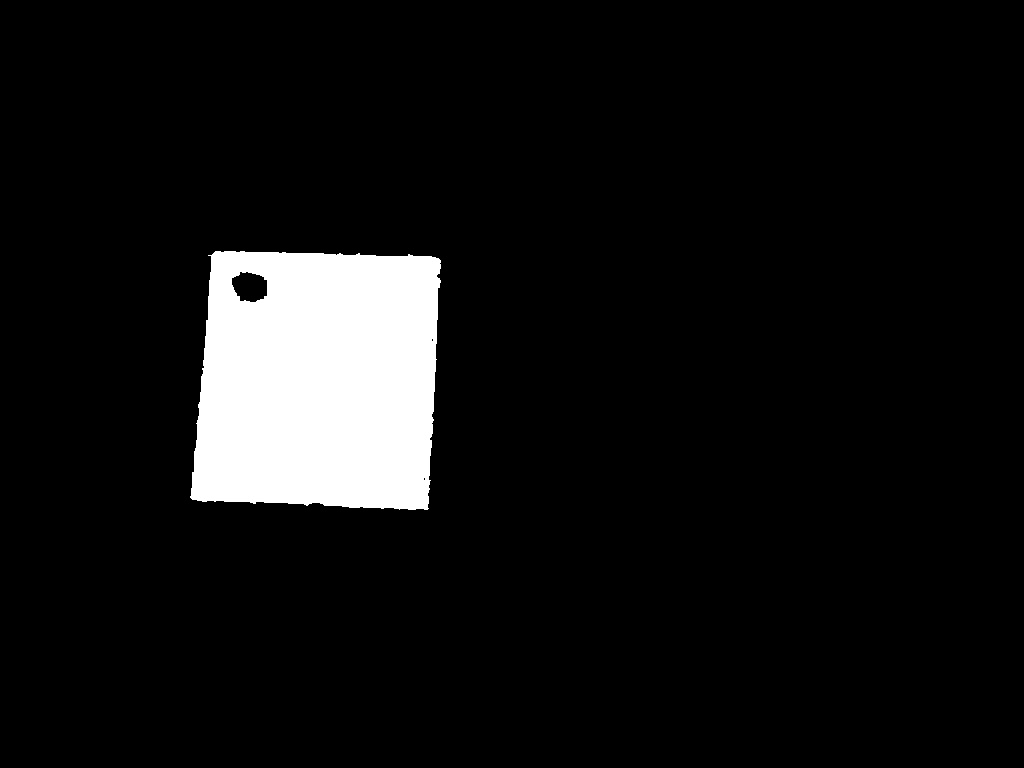
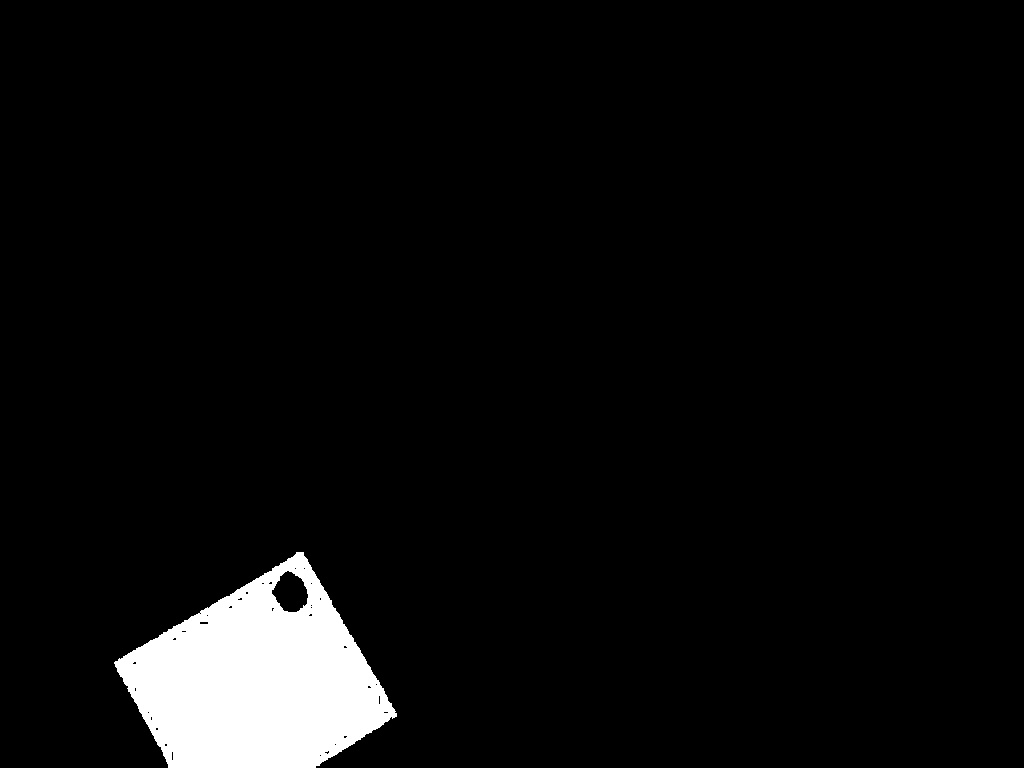
improved translate/rotation for drawing robot

Changed region(s): [[0.1875, 0.3125, 0.4375, 0.6875], [0.0938, 0.7188, 0.4062, 1.0]]

diff --git a/nodejs/index.html b/nodejs/index.html
@@ -12,12 +12,30 @@
   </head>
   <body>
 
-    <canvas id="table" width="700" height="600" ></canvas>
+    <canvas id="table" width="520" height="390" ></canvas>
 
-    <button id="update_pos">update position</button>
+    <div>
+     <p>Robot information</p> 
+     <p><b>angle: </b><span id="robot_angle"></span></p>
+     <p><b>position: </b></p>
+     <p><b>    x: </b><span id="robot_x"></span></p>
+     <p><b>    y: </b><span id="robot_y"></span></p>
+     <p><b>width: </b><span id="robot_width"></span></p>
+     <p><b>height: </b><span id="robot_height"></span></p>
+     <p><b>marker: </b></p>
+     <p><b>    x: </b><span id="robot_marker_x"></span></p>
+     <p><b>    y: </b><span id="robot_marker_y"></span></p>
+    </div>
+
+<!--     <p>angle [degree]</p>
+    <input id="angle"/>
+    <p>destination [cm]</p>
+    <input id="destination" />
+    <button id="update_position">update position</button>
+ -->
     <script>
-      var socket = io();
       $(function () {
+        var socket = io();
         var robot = new Robot();
         var scale = 2;
         var x0 = 0;
@@ -57,6 +75,9 @@
 
           this.marker_x = 0;
           this.marker_y = 0;
+
+          this.cgx = 0;
+          this.cgy = 0;
         }
 
         function drawMarker(){
@@ -78,19 +99,31 @@
           y = robot.y_ul/scale;
           x_prev = robot.x_ul_prev/scale;
           y_prev = robot.y_ul_prev/scale;
-          console.log('hi');
-          console.log(x_prev,y_prev,width_prev,height_prev,angle_prev);
-          console.log(x,y,width,height,angle);
+          cgx = robot.cgx/scale;
+          cgy = robot.cgx/scale;
 
           clearCanvas();
 
+          ctx.translate(cgx, cgy);
           ctx.rotate( angle * Math.PI / 180 );
-          ctx.fillStyle = 'black';
-          ctx.fillRect(x,y,width,height);
+          ctx.translate(-cgx, -cgy);
+
+          drawRectangleFromCenter(cgx,cgy,width,height);
           drawMarker();
           ctx.stroke(); 
           ctx.fill();
+
+          ctx.translate(cgx, cgy);
           ctx.rotate( -angle * Math.PI / 180 );
+          ctx.translate(-cgx, -cgy);
+
+        }
+
+        function drawRectangleFromCenter(cgx,cgy,width,height){
+          var x = cgx-width/2;
+          var y = cgy-height/2;
+          ctx.fillStyle = 'black';
+          ctx.fillRect(x,y,width,height);
         }
 
         function updateLeftUpperPoint(points){
@@ -107,6 +140,19 @@
           }
           cgx = sumx / points.length;
           cgy = sumy / points.length;
+
+          robot.cgx = cgx;
+          robot.cgy = cgy;
+        }
+
+        function showRobotInfo(){
+          $("#robot_angle").text(robot.angle);
+          $("#robot_x").text(robot.cgx);
+          $("#robot_y").text(robot.cgy);
+          $("#robot_width").text(robot.size.width);
+          $("#robot_height").text(robot.size.height);
+          $("#robot_marker_x").text(robot.marker_x);
+          $("#robot_marker_y").text(robot.marker_y);
         }
 
         function sortPointIndices(points){
@@ -163,7 +209,7 @@
         socket.on('update_browser', function(msg){
           console.log(msg);
           robot.x_ul_prev = robot.x_ul;
-          robot.x_ul_prev = robot.y_ul;
+          robot.y_ul_prev = robot.y_ul;
           robot.angle_prev = robot.angle;
           robot.size_prev = robot.size;
           robot.points_prev = robot.points;
@@ -176,16 +222,20 @@
 
           sortPointIndices(msg.points);
           updateLeftUpperPoint(robot.points);
+          computeCenterOfGravity(robot.points);
+
+          console.log(robot);
+          showRobotInfo();
 
           drawRobot();
           drawMarker();
         });
 
-        $("#update_pos").click(function(){
-          x = robot.x + 10;
-          y = robot.x + 10;
-          socket.emit('update_val', {x:x,y:y});
-        });
+        // $("#update_position").click(function(){
+        //   var angle = $("#angle").text();
+        //   var destination  = $("#destination").text();
+        //   socket.emit('update_position', {angle:angle, destination:destination});
+        // });
       });
 
     </script>

diff --git a/nodejs/index.js b/nodejs/index.js
@@ -4,18 +4,20 @@ var io = require('socket.io')(http);
 var port = process.env.PORT || 3000;
 var cv = require('opencv');
 var center_of_marker = {};
+var window;
 
 function detector(){
   try {
     var camera = new cv.VideoCapture(0);
-    var window = new cv.NamedWindow('Video', 0)
+    // window = new cv.NamedWindow('Video', '400x400');
+    window = new cv.NamedWindow('Video', 1);
 
     setInterval(function() {
       camera.read(function(err, im) {
         if (err) throw err;
         console.log(im.size())
         if (im.size()[0] > 0 && im.size()[1] > 0){
-          window.show(im);
+          // window.show(im);
           var im2 = new cv.Matrix(im.width(),im.height());
           im2 = im.clone();
           findRedMarkerPoint(im);
@@ -37,6 +39,7 @@ function findContour(im){
   var upper_threshold = [255,255,255];
   im.inRange(lower_threshold, upper_threshold);
   im.bitwiseNot(im);
+  window.show(im);
   var contours = im.findContours();
   for(var c = 0; c < contours.size(); ++c) {
     var rect= contours.minAreaRect(c)

diff --git a/thresh-red.js b/thresh-red.js
@@ -1,21 +1,21 @@
 var cv = require('opencv');
 
-// var camera = new cv.VideoCapture(0);
-// var window = new cv.NamedWindow('Video', 0)
+var camera = new cv.VideoCapture(0);
+var window = new cv.NamedWindow('Video', 0)
 
-// camera.read(function(err, im) {
-//   if (err) throw err;
-//   console.log(im.size())
-//   if (im.size()[0] > 0 && im.size()[1] > 0){
-//     im.save('cap.jpg');
-//     findContour(im); 
-//   }
-//   window.blockingWaitKey(0, 50);
-// });
-
-cv.readImage('cap2.jpg', function(err, im){
-  findRedMarkerPoint(im); 
+camera.read(function(err, im) {
+  if (err) throw err;
+  console.log(im.size())
+  if (im.size()[0] > 0 && im.size()[1] > 0){
+    // im.save('cap.jpg');
+    findRedMarkerPoint(im); 
+  }
+  window.blockingWaitKey(0, 50);
 });
+
+// cv.readImage('cap2.jpg', function(err, im){
+//   findRedMarkerPoint(im); 
+// });
 
 function findRedMarkerPoint(im){
   im.cvtColor('CV_BGR2GRAY');
